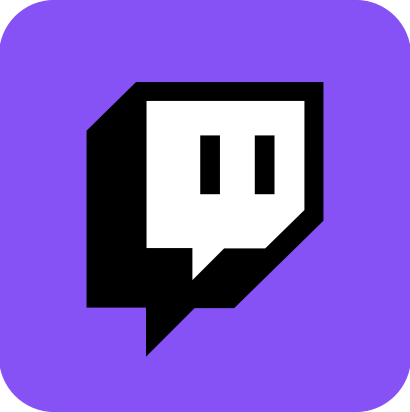
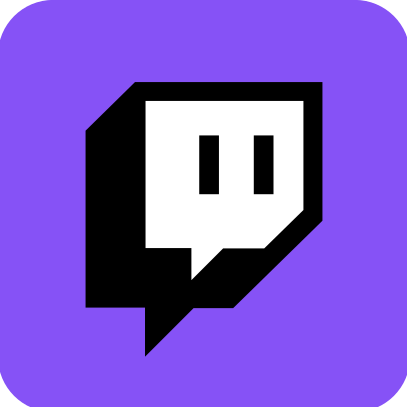
test

diff --git a/index.md b/index.md
@@ -7,7 +7,7 @@ layout: default
 * <a href="https://www.youtube.com/@halie-san"> <img src="./img/youtube.png" width="20"> : YouTube - Halie-san (はりーさん) </a>
 * <a href="https://www.youtube.com/@halie-san-journey"> <img src="./img/youtube.png" width="20"> : YouTube - halie-san Journey Ch. </a>
     * In Preparation.
-* <a href="https://www.twitch.tv/haliesan_t"> <img src="./img/twitch.png" width="25"> : Twitch </a>
+* <a href="https://www.twitch.tv/haliesan_t"> <img src="./img/twitch.png" width="27"> : Twitch </a>
 * <a href="https://bsky.app/profile/haliesan.com"> <img src="./img/bluesky.png" width="20"> : Bluesky - @haliesan.com </a>
 * <a href="https://twitter.com/haliesan_t_jp"> <img src="./img/twitter.png" width="20"> : Twitter（自称： <img src="./img/x_t.png" width="15"> ） - @haliesan_t_jp </a>
 * <a href="https://haliesan.blogspot.com/"> <img src="./img/blogger.png" width="20"> : Blogger - Halie-san's Blog </a>
